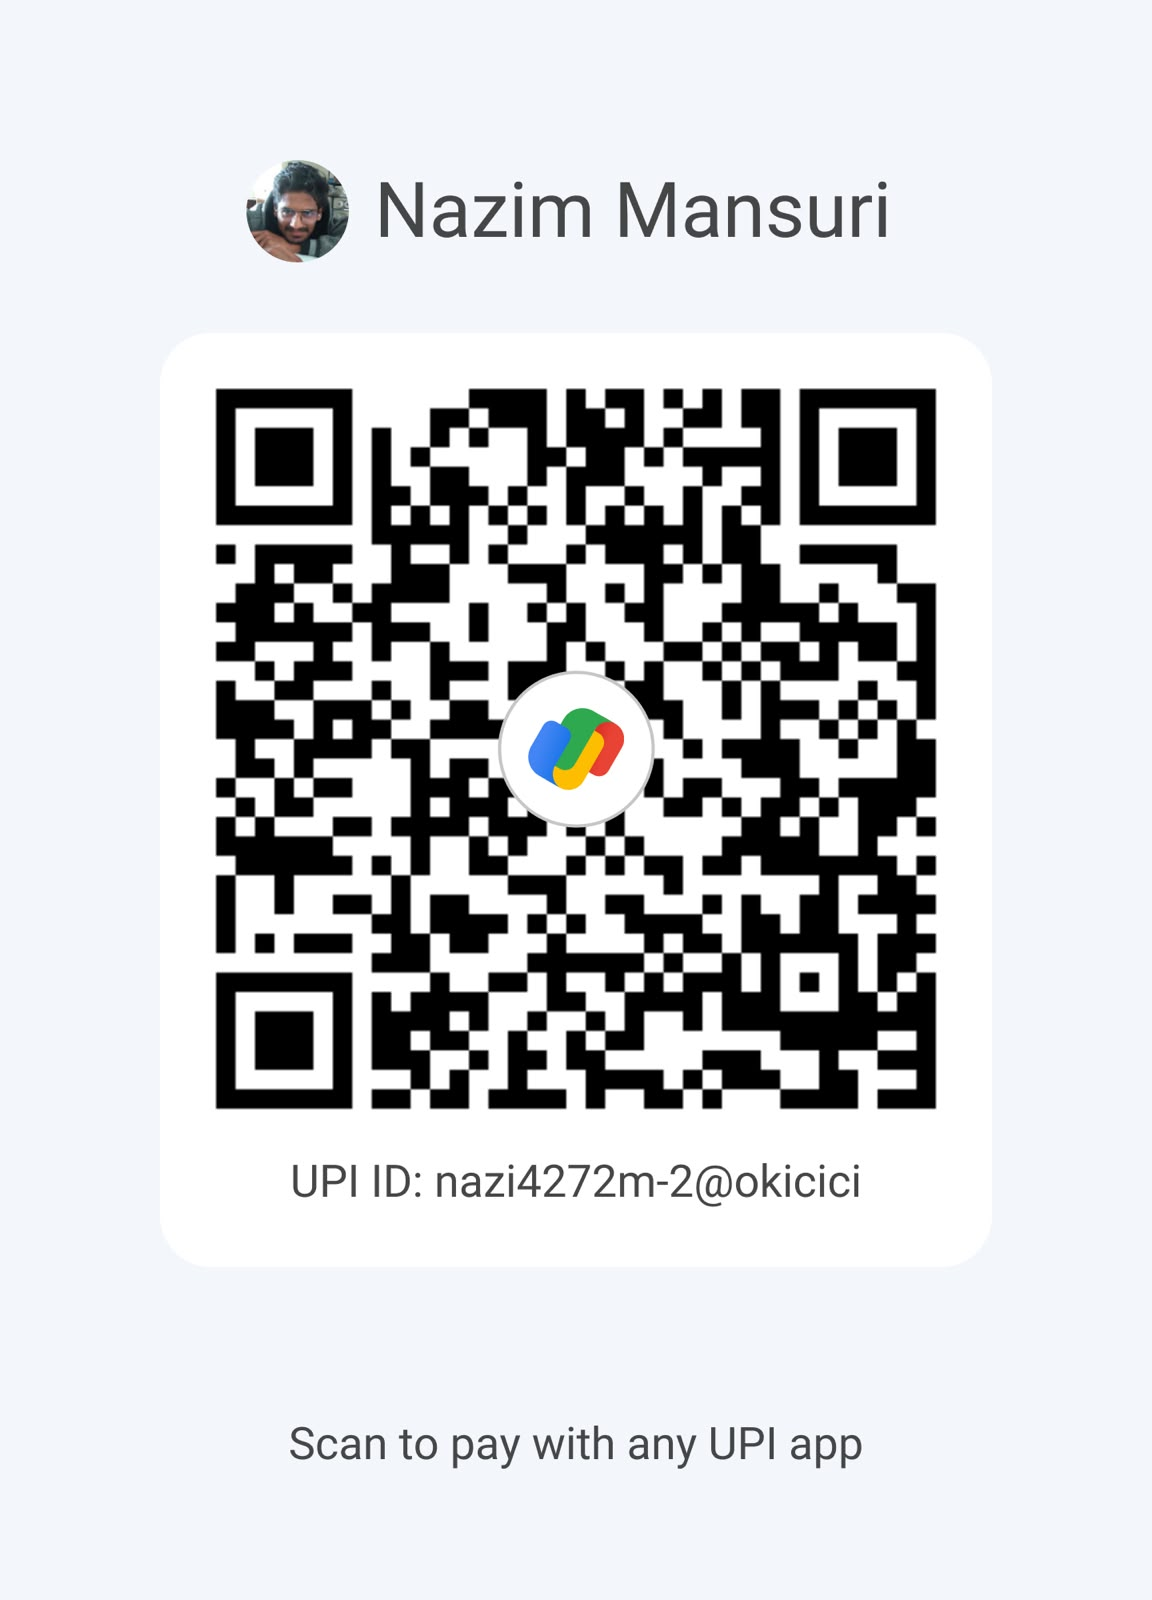
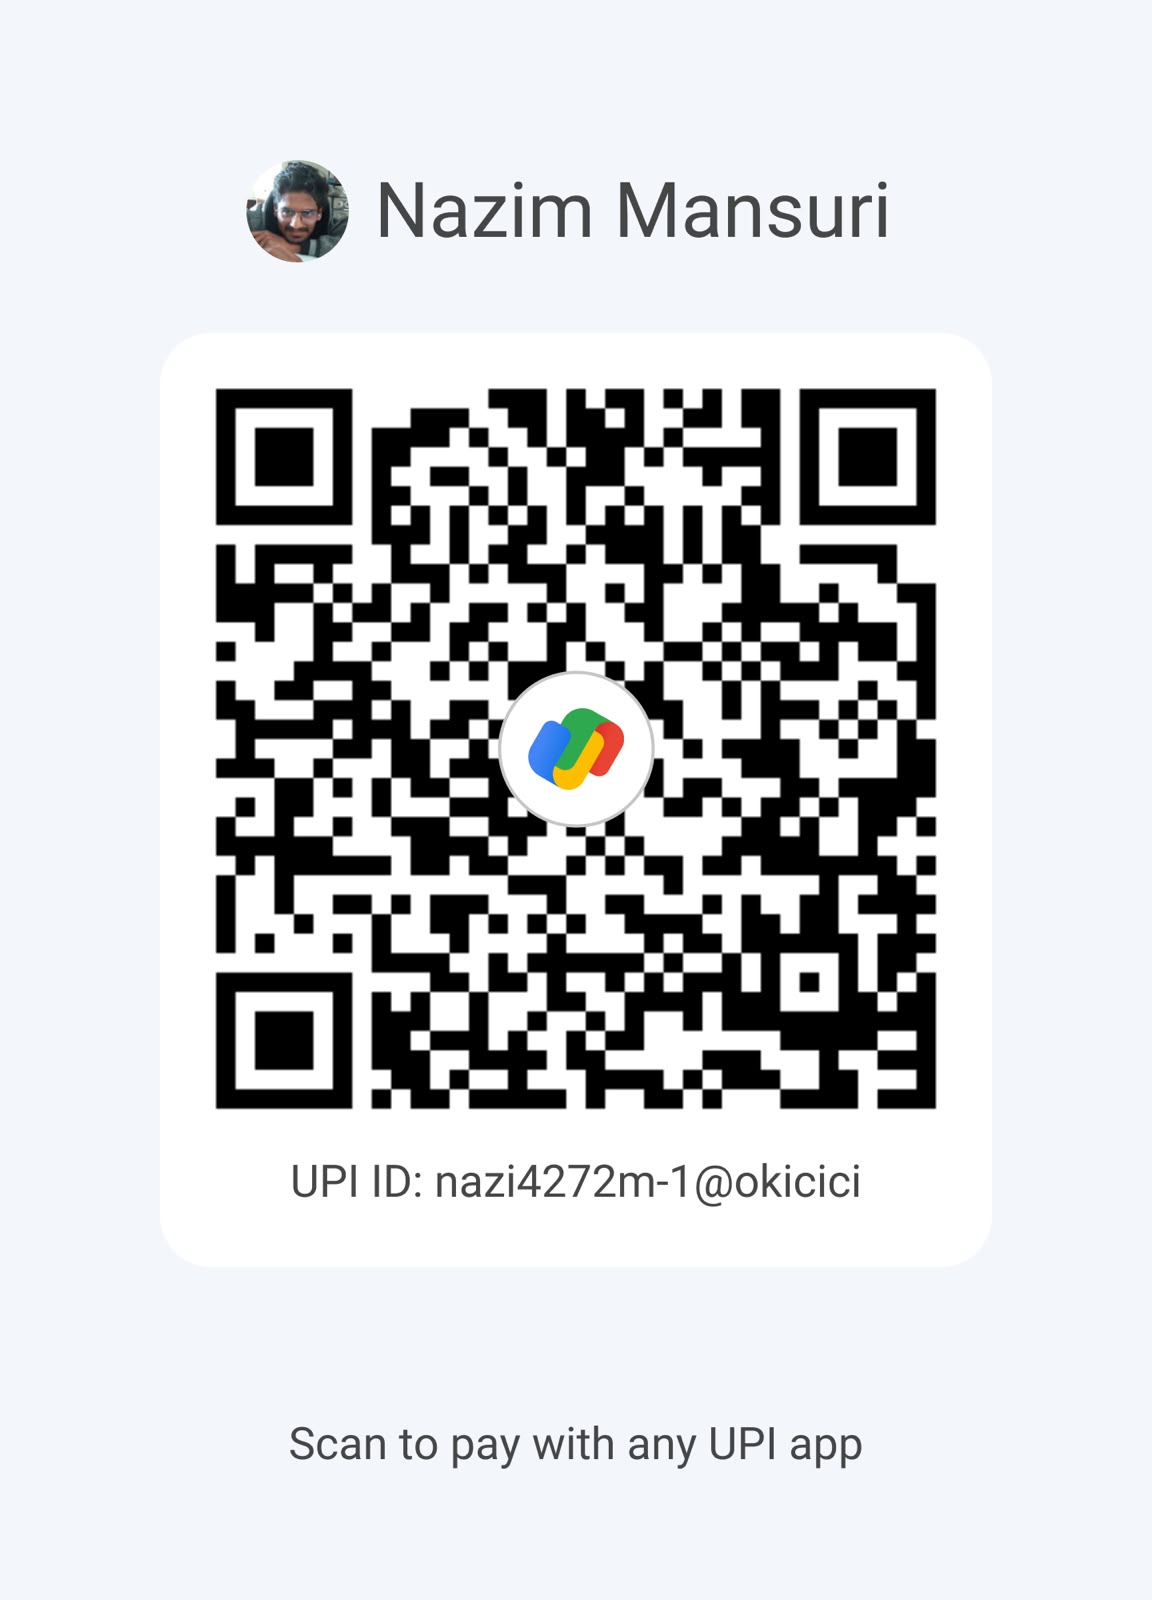
Fixed Server Component error by adding use client

diff --git a/app/odc-join/page.jsx b/app/odc-join/page.jsx
@@ -16,7 +16,7 @@ const CSV_URL = "https://docs.google.com/spreadsheets/d/e/2PACX-1vTSSCmEDqxpPn1O
 /* ── Edit these ── */
 const EVENT_NAME = 'One Day Crew';
 const AMOUNT = 0;                         // fallback price when no ODC is listed in the sheet
-const UPI_ID = 'nazi4272m-2@okicici';
+const UPI_ID = 'nazi4272m-1@okicici';
 const PAYEE_NAME = 'Nazim Mansuri';
 const QR_IMAGE = '/images/pay.jpeg';      // must be in public/images/, NOT public/images/home/
 
